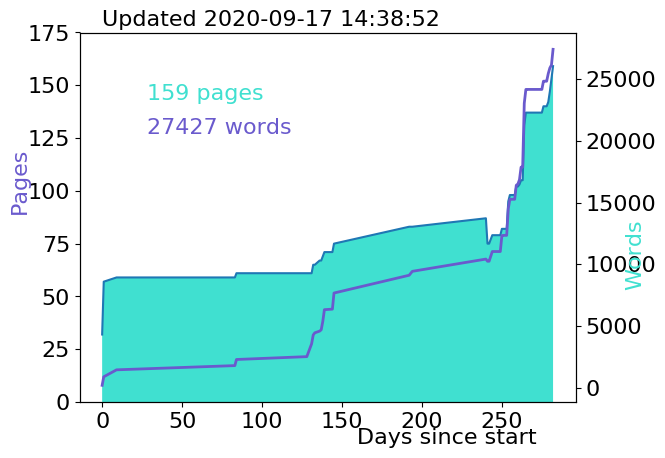
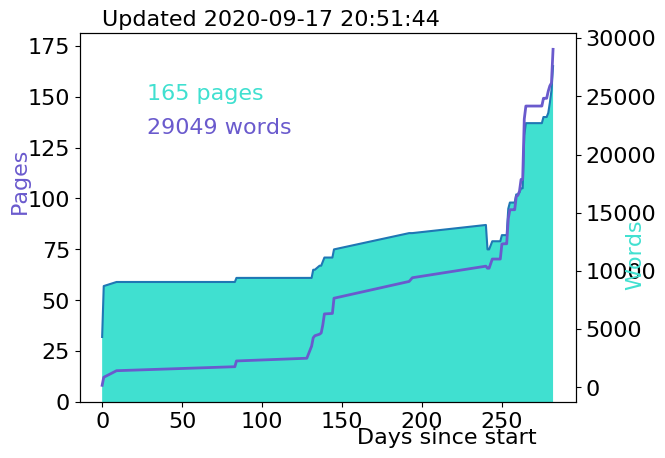
sm section

diff --git a/Chapters/theory.tex b/Chapters/theory.tex
@@ -8,7 +8,7 @@ One attractive extension to the \ac{SM} is \acf{SUSY}, which adds an additional 
 
 \section{The Standard Model}
 
-The \acf{SM} provides a framework for all known particles and interactions through Quantum Field Theory (QFT). All known matter particles and force carriers are described through its formulation, as is the Higgs boson. The particles of the Standard Model are divided into fermions, leptons and quarks, with spin-$\frac{1}{2}$, and bosons with integer spin. Matter is made of fermions and forces are mediated through spin-1 bosons, the spin-0 Higgs boson gives mass to the fermions and other bosons. The particle content of the \ac{SM} is shown in \autoref{fig:sm}. 
+The \acf{SM} provides a framework for all known particles and interactions through Quantum Field Theory (QFT). Each particle is represented as a field and the dynamics as a Lagrangian ($\mathcal{L}$). All known matter particles and force carriers are described through its formulation, as is the Higgs boson. The particles of the Standard Model are divided into fermions, made up of leptons and quarks with spin-$\frac{1}{2}$, and bosons with integer spin. Matter is made of fermions and forces are mediated through spin-1 bosons, the spin-0 Higgs boson gives mass to the fermions and other bosons. The particle content of the \ac{SM} is shown in \autoref{fig:sm}. 
  
 \begin{figure}[htbp]
 \centering
@@ -17,33 +17,116 @@ The \acf{SM} provides a framework for all known particles and interactions throu
 \label{fig:sm}
 \end{figure}
 
-\subsection{Forces}
 
 
+\subsection{Leptons}
+There are three generations of leptons, labeled by flavor, which interact via the electromagnetic and weak forces: electrons ($e$), muons ($\mu$), and taus ($\tau$), ordered by mass. Each lepton has negative electromagnetic charge and has an anti-particle with positive charge. 
 
-\paragraph{Leptons}
-There are three generations of leptons, labeled by flavor, which interact via the electromagnetic and weak forces: electrons ($e$), muons ($\mu$), and taus ($\tau$), ordered by mass. Each lepton has negative electromagnetic charge and has an anti-particle with positive charge. There are also three generations of leptons which interact only via the weak force: electron neutrino ($\nu_{e}$), muon neutrino ($\nu_{\mu}$), and tau neutrinos ($\nu_{\tau}$), with unknown mass ordering. Neutrinos have no electromagnetic charge and tiny masses and thus are extremely hard to detect and not studied at the \ac{LHC}. In any \ac{SM} process, the number of leptons of each flavor is conserved. 
+There are also three generations of leptons which interact only via the weak force: electron neutrino ($\nu_{e}$), muon neutrino ($\nu_{\mu}$), and tau neutrinos ($\nu_{\tau}$), with unknown mass ordering. Neutrinos have no electromagnetic charge and tiny masses and thus are extremely hard to detect and not studied at the \ac{LHC}. 
+
+Electrons and neutrinos are stable, while muons and taus are not. Muons decay to an electron and neutrino with a lifetime of 2.2 $\mu$s, and taus decay 17\% of the time each to an electron or muon and neutrinos, and the remaining 66\% of the time into hadrons and neutrinos. In any \ac{SM} process, the number of leptons ($L$) of each flavor is conserved. 
+
 
 \subsection{Quarks}
-There are three generations of quarks that interact via the electromagnetic, weak, and strong forces. Quarks are further divided into up-type with charge $+\frac{2}{3}q_{e}$ and down-type (with charge $-\frac{1}{3}q_{e}$). The up-type quarks are up ($u$), strange ($s$), and bottom ($b$), the down-type quarks are down ($d$), charm ($c$) and top ($t$). Since they also interact via the strong force, each quark also has a color charge, either red, blue, or green (or the opposite (anticolor)). Individual quarks are not seen in nature and all stable particles are color neutral with whole number charges, either a mix of all three colors or color and anticolor. In nature, quarks are found in color-neutral composite particles called \emph{hadrons}. Color-anticolor pairs are called \emph{mesons} and states with all three colors are called \emph{baryons}. The lightest hadron, the proton ($udd$), is stable, but all others are unstable and many are produced and decay at the \ac{LHC}.
+There are three generations of quarks that interact via the electromagnetic, weak, and strong forces. Quarks are further divided into up-type with charge $+\frac{2}{3}q_{e}$ and down-type (with charge $-\frac{1}{3}q_{e}$). The up-type quarks are up ($u$), strange ($s$), and bottom ($b$), the down-type quarks are down ($d$), charm ($c$) and top ($t$). Since they also interact via the strong force, each quark also has a color charge, either red, blue, or green (or the opposite (anticolor)). Individual quarks are not seen in nature and all stable particles are color neutral with whole number charges, either a mix of all three colors or color and anticolor. In nature, quarks are found in color-neutral composite particles called \emph{hadrons}. Color-anticolor pairs are called \emph{mesons} and states with all three colors are called \emph{baryons}. The lightest hadron, the proton ($uud$), is stable, but all others are not with a wide range of lifetimes. For example, free neutrons ($udd$) have a lifetime of about 15 minutes; pions ($u\bar{u}$) have a lifetime of 26 ns and can travel a substantial distance at the speed of light before decaying; b-mesons a lifetime of 1.5 ps and travel shorter distances if produced in collisions; all other hadrons have shorter lifetimes. 
 
-Quarks formed at the \ac{LHC} hadronize due to the exponential coupling of the strong forces
+Similar to leptons, the baryon number ($B$) is preserved in the \ac{SM}. Baryons have $B = 1$, anti-baryons $B=-1$, and mesons $B=0$.
+
+While quarks can result from \ac{LHC} interactions, color confinement means that bare quarks are not observed by the detectors.
+
+\subsection{Forces}
+
+The electromagnetic, strong, and weak interactions result from the exchange of bosons between the fermions that make up matter. Force mediators interact with fermions that are charged under the corresponding force's quantum numbers. Gravity is not described by the Standard Model because its relative interaction strength is so small.
+
+The symmetries of the Standard Model dictate its possible interactions. The Standard Model must invariant under choice of gauge. To accomplish this, gauge fields are added to the Lagrangian to cancel out the gauge dependence of the free Lagrangian. The gauge fields must be massless or a Higgs field must be introduced in order to maintain the gauge invariance. The Higgs field gives masses to the weak gauge bosons.
+
+The \ac{SM} Lagrangian in invariant symmetries, or local gauge transformations. The symmetry group of the Standard Model is 
+\begin{equation}
+SU_{C}(3) \times SU_{L}(2) \times U_{Y}(1) 
+\end{equation}
+where $C$ stands for the color charge of the strong force, $L$ stands for left because the weak force is left-handed, and Y stands for \emph{hypercharge}, the quantum number of the electroweak force. ``Left-handed'' describes a particle whose spin is oriented opposite its direction of motion. 
 
 
-\subsection{Gauge Bosons}
+\begin{table}[htb]
+\begin{center}
+\begin{tabular}{cc}
+ force & coupling strength $\alpha$ \\
+ \hline
+  gravity   &  $10^{-39}$    \\
+  weak      &  $10^{-6}$     \\
+  electromagnetic  &  $\frac{1}{137} $   \\
+  strong  &  1     \\
+\hline
+\end{tabular}
+\caption{The relative strength of the fundamental forces.}
+\end{center}
+\end{table}
+
+
+\subsubsection{Electroweak Force}
+The electromagnetic and weak forces are low-energy manifestations of the unified electroweak force. The $SU_{L}(2) \times U_{Y}(1)$ symmetry group of the \ac{SM} generates the electoweak force. If the gauge bosons were massless, $SU_{L}(2)$ alone would describe their interactions. The quantum number of the electroweak force is hypercharge, defined as
+\begin{equation}
+Y=2(Q-T_{3})
+\end{equation}
+where $Q$ is the electromagnetic charge and $T_3$ is the third component of the electroweak isospin, the quantum number of the weak interaction.
+
+The gauge bosons that result from the $SU_{L}(2) \times U_{Y}(1)$ symmetry include a triplet and singlet field. The symmetry is broken, these states mix and the electroweak force carriers are produced: $W^{\pm}$ from two of the triplet states, and the $Z$ and photon result from the mixing of the last triplet state with the singlet.
+
+\paragraph{Electromagnetic Force}
+
+Fermions with electric charge interact via the electromagnetic force mediated by the photon ($\gamma$). The photon is massless. Being chargeless and spin-1, photons can \emph{pair-produce} a fermion and anti-fermion if the photon's energy is more than twice the rest mass energy of the fermion. Specifically, photons from \ac{LHC} collisions can pair produce electrons and are called \emph{conversions} or \emph{converted photons}.
+
+\paragraph{Weak Force}
+All fermions are charged under the weak force, mediated by the $W^{\pm}$ and $Z$ bosons. The $W$ bosons interact with left-handed particles and right-handed anti-particles, while the $Z$ boson interacts with both left- and right-handed particles. $W$ bosons are charged so they also interact with photons. The $W$ boson has mass of 80.4 GeV and the $Z$ boson of 90.2 GeV. The coupling constant of the weak force is about $10^{5}$ smaller than that of the electromagnetic force.
+
+\subsubsection{Strong Force}
+Fermions with color charge interact under the strong force, generated by the $SU_{C}(3)$ symmetry and mediated by the massless gluon. The gluon itself is color charged, so gluons interact with each other, and the strength of the color force, the strong coupling constant $\alpha_s$ increases as a function of distance.  $\alpha_s$ also evolves as a function of energy scale $\mu$ as
+\begin{equation}
+\alpha_s(\mu)= \frac{12\pi}{(32-2n_f)\text{ln}\frac{\mu^2}{\Lambda^2_{\text{QCD}}}}
+\end{equation}
+where $n_f$ is the number of quarks flavors (6) and $\Lambda_{\text{QCD}}$ is the the cutoff scale (about 0.2 GeV).
+
+
+
+These features of $\alpha_s$ have several important consequences. The first is \emph{color-confinement}. If two quarks are pulled apart, $\alpha_s$ increases and so does the amount of energy required to continue to separate them. Eventually, it becomes energetically favorable to produce a quark-antiquark pair and form two mesons, rather than continue to separate the original quarks. The result of pulling apart the two quarks is not two separated, colored quarks, but two color-neutral hadrons.
+
+Because of this, quarks that result from interactions in the \ac{LHC} cannot be directly observed. If one is produced it first undergoes a \emph{parton shower}, creating many new colored particles along its trajectory until the particles have enough energy to \emph{hadronize} and form color-neutral particles. This spray of color-neutral hadrons is observed in detectors, and the detector signatures are grouped into a \emph{jet}.
+
+Conversely, at very small distances ($< 10^{-16}$ m), the strong coupling is very small, and so quarks inside of hadrons can move around freely. In this regime, \ac{QCD} can be described perturbatively. $\Lambda_{\text{QCD}}$ is the energy scale at which $\alpha_s$ is too large for perturbation theory to apply.
 
 
 \subsection{Higgs Boson}
 
+The Higgs boson is the only spin-0 particle in the Standard Model and gives the mass to the gauge bosons via electroweak symmetry breaking and to the fermions via the Yukawa coupling. The addition of the $U(1)$ symmetry group results in a massive gauge field (the electroweak triplet) and a massive scalar (the Higgs). The Higgs can also interact with itself.
 
-\section{Open Questions}
+Nothing in the \ac{SM} dictates the mass of the Higgs boson. The only known mass scale not yet exploited is the Planck scale, $M_P ~{} 10^{19}$ GeV. The mass of the Higgs boson has been measured experimentally at around $125$ GeV. The difference between the measured Higgs boson mass and the Planck scale is known as the \emph{heirarchy problem}, which suggests that there is an undiscovered physics scale lower than $M_P$. 
+
+
+\subsection{Conserved Quantities}
+
+In addition to the gauge symmetry that necessitates the existence of the W and Z bosons, the other symmetries of the Standard Model dictate how its particles interact. Symmetry over translations in time lead to conservation energy, translations in space to conservation of momentum, and rotations in space to conservation of angular momentum. Lorentz invariance leads to the conservation of CPT, the combination conservation of charge, parity, and time. There are other conserved quantities that do not arise from known symmetries of the \ac{SM}, including baryon number $B$ and lepton number $L$. 
+
+
+\subsection{Shortcomings}
+There are many reasons to believe the Standard Model does not give a full picture of fundamental physics, despite its robustness against experimental examination. Perhaps the most obvious hole is the lack of a description of gravity. General Relativity provides an extremely effective description of gravity at large scales, but no such description exists at quantum scales. Gravitational interactions become important at $M_P$, well beyond the reach of current experiments and many orders of magnitude larger than the weak scale. Additionally, dark matter and neutrino masses have been observed experimentally, but have no explanation in the Standard Model. 
+
+There are also several aesthetic features of the Standard Model that indicate something might be missing, but are not real problems with the theory. The hierarchy problem suggests that there should be another mass scale below the Planck scale to control the Higgs boson mass. The experimentally measured mass is the sum of the bare mass that appears in the Lagrangian and any quantum corrections from interactions with other particles. Should there be no lower mass scale, those quantum corrections would need to be $10^{35}$ times larger than the Higgs mass. While this is possible, the idea of combining two very large numbers to result in exact, small number makes physicists very uncomfortable and indicates that there might be something that is not understood.
+
+
 \section{Supersymmetry}
 
-\section{GMSB}
+\acf{SUSY} is a theory proposed and developed in the 1970s \cite{susy-found-1,susy-found-2,susy-found-3} that provides solutions to many of the problems with the \ac{SM}. \ac{SUSY} adds a symmetry in addition to the ones already discussed: a symmetry between fermions and bosons whereby fermions can be changed to bosons and vice versa. 
 
-\section{Simplified Models}
+In \ac{SUSY}, each \ac{SM} particle gets a \emph{superpartner} with all of the same quantum numbers except for spin. The bosonic superpartners of fermions are \emph{sfermions} and the fermionic partners of the \ac{SM} bosons have ``-ino'' appended to their names. For example, the superpartner of a tau $\tau$ lepton is a stau $\stau$ and the superpartner of a gluon $g$ is the gluino $\tilde{g}$. A \emph{supermultiplet} refers to the pair of the \ac{SM} particle and its superpartner.
 
-\section{Current Limits on Long Lived Sleptons}
+Should \ac{SUSY} exist, we already know that it must be broken. If the selectron had the same mass as the electron it would have been observed decades ago, so superpartners must be heavier than their \ac{SM} counterparts. The mechanism by which \ac{SUSY} can be broken depends on the specific \ac{SUSY} model.
+
+\subsection{Minimal Supersymmetric Standard Model}
+
+\subsection{GMSB}
+
+\subsection{Simplified Models}
+
 
 
 

diff --git a/Chapters/Accelerators.tex b/Chapters/Accelerators.tex
@@ -30,7 +30,7 @@ In a synchrotron, the magnetic field magnitude and RF frequency are cycled over 
 
 
 
-Secondly, the \ac{LHC} collides protons. Electrons are fundamental particles which create a well understood and clean collision. A collision occurs when an electron and positron annihilate. The energy produced is set by the energy of the beams and there is no ambiguity in the production mechanism of the physical process observed in the detector. Protons, however, are not fundamental particles and when two protons collide, it is their constituent quarks and gluons that interact. This means that not all of the energy of the beam is involved in the primary interaction, nor is the production mechanism known. Additionally, the other quarks and gluons in the proton can interact as well, creating a messier collision environment compared to the electron-positron collision. The fraction of the proton's energy carried by the quarks and gluons is not a known quantity, it must be measured as a \ac{PDF}, which gives the probability of finding a given constituent with a given momentum. Measuring the \ac{PDF} is difficult and uncertainties in the measurements add to the uncertainties of the final result. The fact that the constituents of protons interact can be seen as an advantage or disadvantage: electron-positron collisions happen at a fixed energy, so they are very powerful for performing precision measurements, for example of the W and Z boson masses, where one would like many clean events where W or Z bosons were produced. In a proton-proton machine, however, a range of energy is available at each collision, making them ideal discovery environments, where one would like to look for a new particle at a wide range of masses, like in the case of the \ac{LHC} searching for the Higgs boson and \ac{BSM} phenomena.
+Secondly, the \ac{LHC} collides protons. Electrons are fundamental particles which create a well understood and clean collision. A collision occurs when an electron and positron annihilate. The energy produced is set by the energy of the beams and there is no ambiguity in the production mechanism of the physical process observed in the detector. Protons, however, are not fundamental particles and when two protons collide, it is their constituent quarks and gluons that interact. This means that not all of the energy of the beam is involved in the primary interaction, nor is the production mechanism known. Additionally, the other quarks and gluons in the proton can interact as well, creating a messier collision environment compared to the electron-positron collision. The fraction of the proton's energy carried by the quarks and gluons is not a known quantity\footnote{In fact, extra \emph{sea quarks} come in and out of existence inside of the protons, these take energy from the main \emph{valence} quarks and can be collide.}, it must be measured as a \acf{PDF}, which gives the probability of finding a given constituent with a given momentum. Measuring the \ac{PDF} is difficult and uncertainties in the measurements add to the uncertainties of the final result. The fact that the constituents of protons interact can be seen as an advantage or disadvantage: electron-positron collisions happen at a fixed energy, so they are very powerful for performing precision measurements, for example of the W and Z boson masses, where one would like many clean events where W or Z bosons were produced. In a proton-proton machine, however, a range of energy is available at each collision, making them ideal discovery environments, where one would like to look for a new particle at a wide range of masses, like in the case of the \ac{LHC} searching for the Higgs boson and \ac{BSM} phenomena.
 
 Furthermore, particles moving in a magnetic field lose energy through synchrotron radiation, where the energy lost per turn per particles is given as
 

diff --git a/Chapters/ATLAS.tex b/Chapters/ATLAS.tex
@@ -281,12 +281,12 @@ Triggers are generally described by the physics object type and \pt threshold. T
 
 Nearly all searches for unconventional triggers face challenges finding a trigger. Tracking is only done in the \ac{HLT} near the \ac{L1} \acp{RoI}, so directly targeting peculiar tracks is challenging. Furthermore, the tracking done in the trigger assumes particles originate from the collision point and so electron and muon triggers veto displaced leptons whose tracks would not be reconstructed.
 
-In order to avoid the dependence on tracking, \ac{MS}-signature-only triggers are used to identify displaced muons, and photon triggers (\ac{EM}-signature-only triggers) are used to identify displaced electrons. However, removing the tracking information removes an important discriminator from the \ac{HLT} algorithm, so these triggers suffer very high fake rates. Thus, they are otherwise limited. The muon trigger can only select muons with $|\eta| < 1.05$ and the single photon trigger has a high \pt threshold. The triggers used for this analysis are listed below and the requirements made on them in the analysis will be described in \autoref{sec:data}.
+In order to avoid the dependence on tracking, \ac{MS}-signature-only triggers are used to identify displaced muons, and photon triggers (\ac{EM}-signature-only triggers) are used to identify displaced electrons. However, removing the tracking information removes an important discriminator from the \ac{HLT} algorithm, so these triggers suffer very high fake rates. Thus, they are otherwise limited. The muon trigger can only select muons with $|\eta| < 1.05$ and the single photon trigger has a high \pt threshold. Each of these triggers was determined to have a constant efficiency with respect to the displacement of the lepton. The triggers used for this analysis are listed below and the requirements made on them in the analysis will be described in \autoref{sec:data}.
 
 \begin{itemize}
-	\item \texttt{HLT\_mu60\_0eta105\_msonly}
-	\item \texttt{HLT\_g140\_loose}
-	\item \texttt{HLT\_2g50\_loose}
+	\item \texttt{HLT\_mu60\_0eta105\_msonly} selects single \ac{MS}-only muon signatures with $\pt > 60$ GeV. The $\eta$ range is restricted to $|\eta| < 1.05$ to reduce the fake rate.
+	\item \texttt{HLT\_g140\_loose} selects single photons, in this analysis used as \ac{EM}-only signatures. The fake rate for this trigger is quite high, so the photons must have $\et > 140$ GeV. ``loose'' refers to the fact that very few additional requirements are made to identify this cluster specifically as a photon.
+	\item \texttt{HLT\_2g50\_loose} selects di-photon events where each photon has $\et > 50$ GeV. It uses the same ``loose'' definition that enables this trigger to be used for displaced electrons.
 \end{itemize}
 
 

diff --git a/Chapters/EventReconstruction.tex b/Chapters/EventReconstruction.tex
@@ -212,7 +212,7 @@ This procedure is performed on tracks with at least 5 silicon hits and roughly m
 
 \begin{figure}[htbp]
 \centering
-\includegraphics[width=.7\textwidth]{figures/EventReconstruction/elec-qxd0.png}
+\includegraphics[width=.6\textwidth]{figures/EventReconstruction/elec-qxd0.png}
 \caption{The impact on the $q \times \dzero /\sigma(\dzero)$ measurement by the addition of \ac{GSF} tracking. This is sampled from prompt electrons, so the narrower distribution centered around zero indicates significant improvement.}
 \label{fig:elec_gsf}
 \end{figure}

diff --git a/scripts/pages.md b/scripts/pages.md
@@ -489,3 +489,7 @@
 + [2020-09-17-14h36m00s] 159 27427
 + [2020-09-17-14h37m43s] 159 27427
 + [2020-09-17-14h38m52s] 159 27427
++ [2020-09-17-15h03m20s] 159 27539
++ [2020-09-17-15h07m37s] 159 27539
++ [2020-09-17-20h01m57s] 164 28441
++ [2020-09-17-20h51m44s] 165 29049
